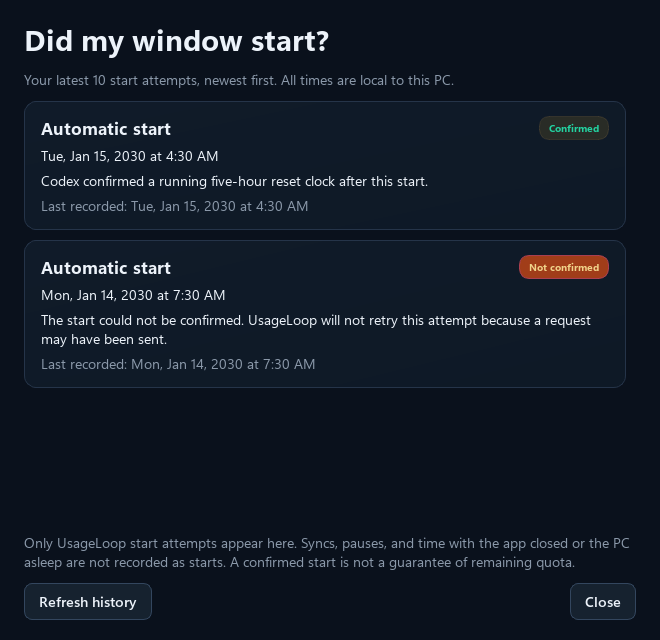
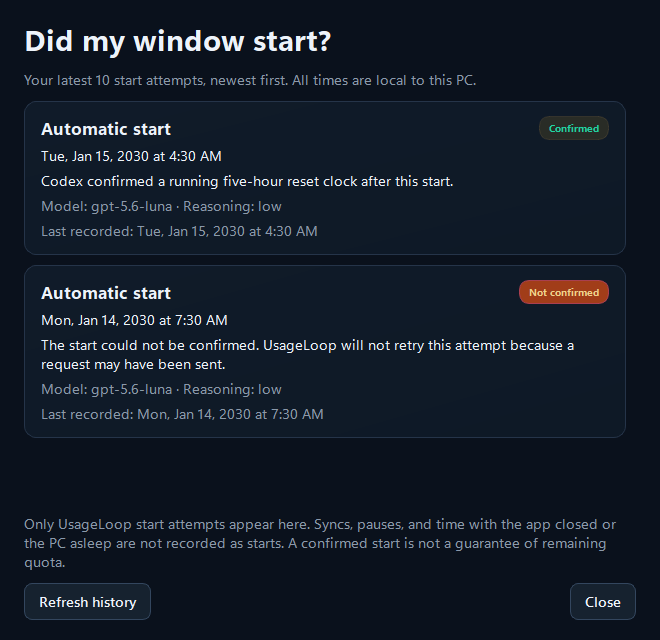
Recover failed Codex compatibility checks

diff --git a/src/sentinel/desktop.py b/src/sentinel/desktop.py
@@ -117,7 +117,7 @@ def tray_tooltip_text(
         return prefix + "waiting for Codex status"
     if state.reset_at is not None and state.reset_at > now:
         return prefix + f"{format_countdown(state.reset_at, now)} left"
-    if state.status == "Starting":
+    if state.status in {"Starting", "Checking"}:
         return prefix + "checking Codex status"
     decision = automation_decision(
         settings.automation_enabled,
@@ -460,6 +460,10 @@ class MainWindow(QMainWindow):
         self.overall_detail.setWordWrap(True)
         overall_copy.addWidget(self.overall_title)
         overall_copy.addWidget(self.overall_detail)
+        self.recheck_dashboard_button = QPushButton("Recheck Codex compatibility")
+        self.recheck_dashboard_button.setObjectName("secondaryButton")
+        self.recheck_dashboard_button.clicked.connect(self.recheck_compatibility)
+        overall_copy.addWidget(self.recheck_dashboard_button, 0, Qt.AlignmentFlag.AlignLeft)
         overall_layout.addLayout(overall_copy, 1)
         self.automation_state_label = StatusPill()
         self.automation_state_label.setFixedHeight(28)
@@ -789,9 +793,16 @@ class MainWindow(QMainWindow):
         startup_layout.addWidget(startup_row)
 
         technical_card, technical_layout = make_surface_card(
-            "Advanced",
-            "Compatibility and diagnostic information for troubleshooting.",
+            "Codex connection",
+            "After updating or signing back in to Codex, recheck here. This reads usage and supported models without sending a model request.",
         )
+        self.compatibility_status = QLabel()
+        self.compatibility_status.setWordWrap(True)
+        technical_layout.addWidget(self.compatibility_status)
+        self.recheck_button = QPushButton("Recheck Codex compatibility")
+        self.recheck_button.setObjectName("secondaryButton")
+        self.recheck_button.clicked.connect(self.recheck_compatibility)
+        technical_layout.addWidget(self.recheck_button)
         technical = Disclosure("Technical details")
         self.diagnostic_text = QLabel()
         self.diagnostic_text.setObjectName("diagnosticValue")
@@ -1029,10 +1040,27 @@ class MainWindow(QMainWindow):
                     and state.installed
                     and state.automation_supported
                     and state.reset_at is None
-                    and state.status != "Starting"
+                    and state.status not in {"Starting", "Checking"}
                 )
         codex = self.controller.states.get("codex")
         if codex is not None:
+            checking = self.active_operations.get("codex") == "probe"
+            needs_check = (
+                not codex.automation_supported
+                or self.controller.settings.compatible_runtime_identities.get("codex") != codex.runtime_identity
+            )
+            self.recheck_dashboard_button.setVisible(codex.installed and needs_check)
+            for button in (self.recheck_button, self.recheck_dashboard_button):
+                button.setEnabled(codex.installed and not self.active_operations and self.controller.persistence_error is None)
+                button.setText("Checking Codex…" if checking else "Recheck Codex compatibility")
+            self.compatibility_status.setText(
+                "Checking usage and models. Allow about 30 seconds. No model request is sent."
+                if checking else
+                "Codex is not detected. Install and open Codex, then reopen UsageLoop."
+                if not codex.installed else
+                codex.detail if needs_check else
+                "Compatibility confirmed. Your saved schedule and safety checks still apply."
+            )
             self.schedule_card.update_schedule(
                 self.controller.settings, codex, now=current
             )
@@ -1054,12 +1082,25 @@ class MainWindow(QMainWindow):
                 self.overall_detail.setText(
                     "Install and sign in to Codex before UsageLoop can observe a reset clock."
                 )
-            elif codex.status == "Needs attention":
+            elif checking:
+                self._set_overall_icon("○", "info")
+                self.overall_title.setText("Checking the Codex connection")
+                self.overall_detail.setText("Reading usage and supported models. No model request is sent. Allow about 30 seconds.")
+            elif codex.status == "Needs attention" or (
+                needs_check
+                and self.controller.settings.checked_runtime_identities.get("codex") == codex.runtime_identity
+            ):
                 self._set_overall_icon("!", "warning")
                 self.overall_title.setText("UsageLoop stopped safely")
                 self.overall_detail.setText(
-                    "No request was retried. Open Technical details for the reason."
+                    "Use Recheck Codex compatibility below after fixing the connection. No model request is sent."
+                    if needs_check else
+                    "No request was retried. Open Settings > Codex connection > Technical details for the reason."
                 )
+            elif not enabled:
+                self._set_overall_icon("○", "info")
+                self.overall_title.setText("Automation is off")
+                self.overall_detail.setText("No automatic starts. Your saved routine will be used when you enable automation.")
             elif codex.reset_at is not None and codex.reset_at > current:
                 self._set_overall_icon("✓", "success")
                 self.overall_title.setText("Everything is set")
@@ -1200,13 +1241,24 @@ class MainWindow(QMainWindow):
         worker.signals.failed.connect(self._operation_failed)
         self.thread_pool.start(worker)
 
+    def recheck_compatibility(self) -> None:
+        """One explicit read-only probe; never enable automation or run a turn."""
+        if self.active_operations or self.controller.persistence_error is not None:
+            return
+        self.controller.refresh_local_states()
+        state = self.controller.states.get("codex")
+        if state is None or not state.installed:
+            self.refresh_clock()
+            return
+        self._start_operation("codex", "probe")
+
     def _start_operation(self, provider_id: str, action: str) -> None:
         provider = self.providers.get(provider_id)
         if provider is None:
             return
         state = self.controller.states[provider_id]
         saved = self.controller.update_provider_state(
-            replace(state, status="Starting", detail="Checking Codex safely.")
+            replace(state, status="Checking" if action == "probe" else "Starting", detail="Checking Codex safely.")
         )
         if not saved:
             self.refresh_clock()

diff --git a/tests/test_desktop.py b/tests/test_desktop.py
@@ -200,6 +200,7 @@ class DesktopTests(unittest.TestCase):
         window.controller.update_provider_state(
             state.with_reset(20_000, verified_at=100)
         )
+        window.controller.set_automation_enabled(True)
         window.refresh_clock(now=1_000)
         self.assertEqual("success", window.overall_icon.property("tone"))
         self.assertEqual("✓", window.overall_icon.text())
@@ -966,7 +967,84 @@ class DesktopTests(unittest.TestCase):
         self.assertEqual(0, provider.action_calls)
         self.assertEqual(12, window.controller.states["codex"].used_percent)
         self.assertEqual(20, window.controller.states["codex"].weekly_used_percent)
-        self.assertIn("Updated just now", window.provider_cards["codex"].sync_status.text())
+        self.assertIn("Sync complete", window.provider_cards["codex"].sync_status.text())
+
+    def test_explicit_recheck_recovers_failed_compatibility_without_a_turn(self):
+        state = ProviderViewState(
+            "codex", "Codex", True, False, "Needs attention", "Transient failure.",
+            runtime_identity="runtime:1", reset_at=2_000_000_000,
+            automation_blocked_until=2_000_000_100, last_action="Uncertain start",
+        )
+        window, provider = self.make_window(state)
+        pool = FakeThreadPool()
+        window.thread_pool = pool
+        failed = CompatibilityResult(False, "Needs attention", "Transient failure.", "runtime:1")
+        window.controller.apply_compatibility("codex", failed)
+        window.refresh_clock()
+        self.assertFalse(window.recheck_dashboard_button.isHidden())
+        with patch.object(provider, "probe", return_value=CompatibilityResult(
+            True, "Waiting", "Compatibility confirmed.", "runtime:1"
+        )) as probe:
+            window.recheck_button.click()
+            window.recheck_compatibility()
+            self.assertEqual(1, len(pool.workers))
+            self.assertFalse(window.recheck_button.isEnabled())
+            self.assertEqual("CHECKING CONNECTION", window.provider_cards["codex"].status_label.text())
+            self.assertIn("No model request", window.overall_detail.text())
+            pool.workers[0].run()
+            self.app.processEvents()
+        probe.assert_called_once()
+        self.assertEqual(0, provider.action_calls)
+        self.assertEqual(0, provider.sync_calls)
+        self.assertFalse(window.controller.settings.automation_enabled)
+        saved = window.controller.store.load()
+        self.assertEqual("runtime:1", saved.compatible_runtime_identities["codex"])
+        recovered = window.controller.states["codex"]
+        self.assertEqual(2_000_000_100, recovered.automation_blocked_until)
+        self.assertEqual("Uncertain start", recovered.last_action)
+        self.assertTrue(window.recheck_dashboard_button.isHidden())
+        self.assertEqual("Automation is off", window.overall_title.text())
+
+    def test_failed_explicit_recheck_stays_paused_and_can_be_rechecked(self):
+        state = ProviderViewState.waiting("codex", "Codex", installed=True, runtime_identity="runtime:1")
+        window, provider = self.make_window(state)
+        pool = FakeThreadPool()
+        window.thread_pool = pool
+        with patch.object(provider, "probe", return_value=CompatibilityResult(
+            False, "Needs attention", "Sign in to Codex, then recheck.", "runtime:1"
+        )):
+            window.recheck_compatibility()
+            pool.workers[0].run()
+            self.app.processEvents()
+        self.assertFalse(window.controller.states["codex"].automation_supported)
+        self.assertTrue(window.recheck_button.isEnabled())
+        self.assertIn("Sign in", window.compatibility_status.text())
+        self.assertEqual(0, provider.action_calls)
+
+    def test_recheck_cannot_overlap_any_active_operation(self):
+        window, provider = self.make_window(ProviderViewState.waiting("codex", "Codex", installed=True))
+        window.thread_pool = FakeThreadPool()
+        for action in ("sync", "rollover", "bootstrap", "probe"):
+            window.active_operations["codex"] = action
+            window.recheck_compatibility()
+        self.assertEqual([], window.thread_pool.workers)
+        self.assertEqual(0, provider.action_calls)
+
+    def test_usage_sync_cannot_hide_a_failed_compatibility_check(self):
+        window, provider = self.make_window(ProviderViewState.waiting(
+            "codex", "Codex", installed=True, runtime_identity="runtime:1"
+        ))
+        window.controller.apply_compatibility("codex", CompatibilityResult(
+            False, "Needs attention", "Compatibility failed.", "runtime:1"
+        ))
+        window.thread_pool = FakeThreadPool()
+        window.start_usage_sync("codex")
+        window.thread_pool.workers[0].run()
+        self.app.processEvents()
+        window.refresh_clock(now=100)
+        self.assertEqual("UsageLoop stopped safely", window.overall_title.text())
+        self.assertFalse(window.recheck_dashboard_button.isHidden())
+        self.assertEqual(0, provider.action_calls)
 
     def test_repeated_sync_presses_cannot_overlap_sampling(self):
         state = ProviderViewState.waiting(

diff --git a/scripts/capture-ui-screenshots.py b/scripts/capture-ui-screenshots.py
@@ -16,6 +16,7 @@ from sentinel.app_state import AppStateStore, ProviderViewState
 from sentinel.desktop import MainWindow
 from sentinel.history import SafeHistory
 from sentinel.product import PRODUCT
+from sentinel.providers import CompatibilityResult
 from sentinel.updates import ReleaseAsset, ReleaseInfo, UpdateCheckResult
 
 
@@ -27,6 +28,9 @@ class PreviewProvider:
 
     def detect(self) -> ProviderViewState:
         return self.state
+
+    def probe(self) -> CompatibilityResult:
+        return CompatibilityResult(True, "Waiting", "Compatibility confirmed.", self.state.runtime_identity)
 
 
 class PreviewStartup:
@@ -67,6 +71,7 @@ def main() -> int:
     parser = argparse.ArgumentParser()
     parser.add_argument("output", type=Path)
     parser.add_argument("--interactive", action="store_true", help="Keep the synthetic app open; no provider traffic.")
+    parser.add_argument("--compatibility-failure", action="store_true", help="Preview a failed read-only check and its recovery.")
     args = parser.parse_args()
     args.output.mkdir(parents=True, exist_ok=True)
     app = QApplication.instance() or QApplication([])
@@ -85,7 +90,7 @@ def main() -> int:
         for offset, outcome in ((-86400, "failed_guarded"), (-3 * 3600, "verified")):
             attempt = provider.history.reserve_trigger(
                 mode="rollover", idempotency_key=f"preview:{abs(offset)}", boundary_reset_at=None,
-                model="preview", reasoning_effort="low", now=now + offset,
+                model="gpt-5.6-luna", reasoning_effort="low", now=now + offset,
             )
             provider.history.transition_trigger(attempt.attempt_id, "launch_attempted", now=now + offset + 1)
             provider.history.transition_trigger(attempt.attempt_id, outcome, now=now + offset + 30)
@@ -107,6 +112,13 @@ def main() -> int:
             ((4, 0), (4, 0), (4, 0), (4, 0), (4, 0), (5, 0), (5, 0))
         )
         window._sync_weekly_editor()
+        controller.apply_compatibility("codex", CompatibilityResult(
+            not args.compatibility_failure,
+            "Needs attention" if args.compatibility_failure else "Ready",
+            "The Codex compatibility check failed safely. No automatic request was sent."
+            if args.compatibility_failure else "Compatibility confirmed.",
+            codex.runtime_identity,
+        ))
         window.refresh_clock(now=now)
         if args.interactive:
             window.resize(1040, 750)

diff --git a/src/sentinel/ui_components.py b/src/sentinel/ui_components.py
@@ -200,6 +200,12 @@ def present_provider_state(
             "Nothing was retried. Diagnostics has the technical reason.",
             verified, usage, weekly, action,
         )
+    if state.status == "Checking":
+        return ProviderPresentation(
+            "CHECKING CONNECTION", "info", "Checking Codex compatibility", reset,
+            "Reading usage and supported models. No model request is sent.",
+            verified, usage, weekly, action,
+        )
     if state.status == "Starting":
         return ProviderPresentation(
             "STARTING NEXT WINDOW", "info", "Starting the next reset clock", reset,
@@ -342,7 +348,7 @@ class ProviderCard(QFrame):
         messages = {
             "idle": "",
             "syncing": "Syncing…",
-            "updated": "Updated just now",
+            "updated": "Sync complete",
             "inconclusive": "Couldn’t confirm Codex usage",
             "unavailable": "Codex not available",
         }

diff --git a/src/sentinel/product.py b/src/sentinel/product.py
@@ -90,7 +90,7 @@ class ProductMetadata:
 PRODUCT = ProductMetadata(
     display_name="UsageLoop",
     tagline="Keep your Codex reset clock running.",
-    version="1.3.2",
+    version="1.3.3",
     github_owner="benthompsondev",
     github_repo="usageloop",
     executable_name="UsageLoop.exe",

diff --git a/README.md b/README.md
@@ -31,7 +31,7 @@ does not apply.
 
 ![UsageLoop dashboard showing an active five-hour window and the next scheduled action](docs/screenshots/dashboard.png)
 
-Screenshots show v1.3.0 with synthetic usage data.
+Screenshots show v1.3.3 with synthetic usage data.
 
 - Native x64-compatible Windows app with a quiet system tray mode
 - Free and open source under the MIT license
@@ -297,6 +297,13 @@ observations showing a fixed reset timestamp.
 If a request may have been sent, UsageLoop never retries it automatically.
 
 ## Get help and share feedback
+
+If a Codex update or temporary connection failure pauses compatibility, use
+**Settings > Codex connection > Recheck Codex compatibility**. A shortcut also
+appears on the Dashboard when a check is needed. Allow about 30 seconds. This
+reads usage and supported models without sending a model request, changing your
+routine, or retrying an uncertain start. If the check fails, fix the reported
+problem and recheck when ready. UsageLoop does not repeatedly retry it for you.
 
 - [Report a problem](https://github.com/benthompsondev/usageloop/issues/new?template=bug_report.yml)
 - [Request a feature](https://github.com/benthompsondev/usageloop/issues/new?template=feature_request.yml)
